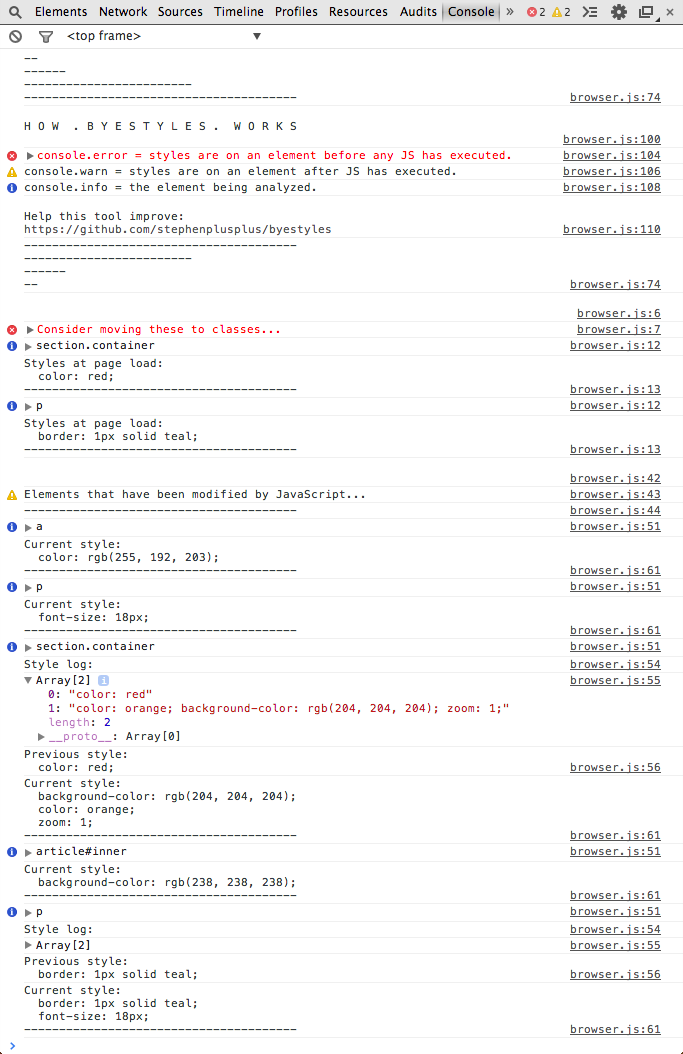
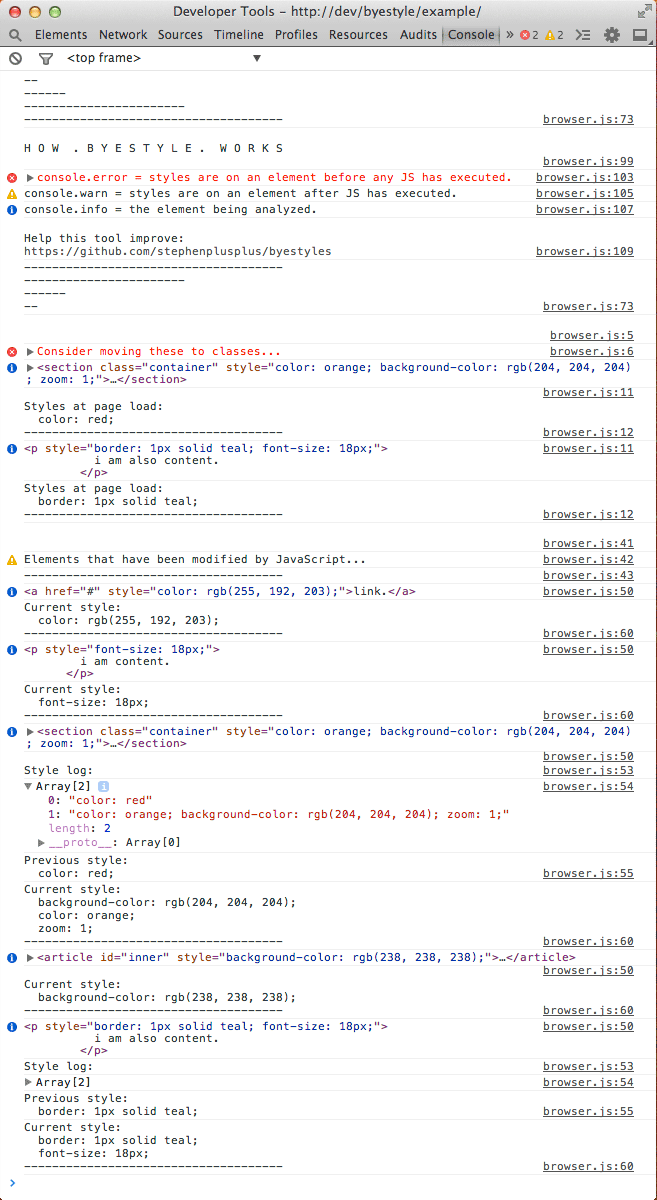
allo x 5.

diff --git a/browser.js b/browser.js
@@ -1,24 +1,24 @@
-!function(e){if("object"==typeof exports)module.exports=e();else if("function"==typeof define&&define.amd)define(e);else{var f;"undefined"!=typeof window?f=window:"undefined"!=typeof global?f=global:"undefined"!=typeof self&&(f=self),f.byestyles=e()}}(function(){var define,module,exports;return (function e(t,n,r){function s(o,u){if(!n[o]){if(!t[o]){var a=typeof require=="function"&&require;if(!u&&a)return a(o,!0);if(i)return i(o,!0);throw new Error("Cannot find module '"+o+"'")}var f=n[o]={exports:{}};t[o][0].call(f.exports,function(e){var n=t[o][1][e];return s(n?n:e)},f,f.exports,e,t,n,r)}return n[o].exports}var i=typeof require=="function"&&require;for(var o=0;o<r.length;o++)s(r[o]);return s})({"Focm2+":[function(_dereq_,module,exports){
-var byestyles = module.exports = {
+!function(e){if("object"==typeof exports)module.exports=e();else if("function"==typeof define&&define.amd)define(e);else{var f;"undefined"!=typeof window?f=window:"undefined"!=typeof global?f=global:"undefined"!=typeof self&&(f=self),f.byestyle=e()}}(function(){var define,module,exports;return (function e(t,n,r){function s(o,u){if(!n[o]){if(!t[o]){var a=typeof require=="function"&&require;if(!u&&a)return a(o,!0);if(i)return i(o,!0);throw new Error("Cannot find module '"+o+"'")}var f=n[o]={exports:{}};t[o][0].call(f.exports,function(e){var n=t[o][1][e];return s(n?n:e)},f,f.exports,e,t,n,r)}return n[o].exports}var i=typeof require=="function"&&require;for(var o=0;o<r.length;o++)s(r[o]);return s})({"Focm2+":[function(_dereq_,module,exports){
+var byestyle = module.exports = {
   calculate: function () {
-    if (++byestyles.calculatedCount === 1) {
-      console.log(byestyles.spacer);
+    if (++byestyle.calculatedCount === 1) {
+      console.log(byestyle.spacer);
       console.error('Consider moving these to classes...');
 
-      byestyles.els.
+      byestyle.els.
         forEach(function (elObject) {
           var lastStyle = elObject.properties.styleLog[elObject.properties.styleLog.length - 1];
           console.info(elObject.el);
           console.log([
             'Styles at page load:',
-            byestyles.format(lastStyle),
-            byestyles.separator].join('\n'));
+            byestyle.format(lastStyle),
+            byestyle.separator].join('\n'));
         });
 
       return;
     }
 
-    var els = byestyles.els.
+    var els = byestyle.els.
       filter(function (elObject) {
         var styleLog = elObject.properties.styleLog;
         return styleLog.length === 1 ||
@@ -38,9 +38,9 @@ var byestyles = module.exports = {
       }, []);
 
     if (els.length) {
-      console.log(byestyles.spacer);
+      console.log(byestyle.spacer);
       console.warn('Elements that have been modified by JavaScript...');
-      console.log(byestyles.separator);
+      console.log(byestyle.separator);
 
       els.
         forEach(function (elObject) {
@@ -54,13 +54,13 @@ var byestyles = module.exports = {
             console.dir(styleLog);
             console.log([
               'Previous style:',
-              byestyles.format(styleLog[styleLog.length - 2])].join('\n'));
+              byestyle.format(styleLog[styleLog.length - 2])].join('\n'));
           }
 
           console.log([
             'Current style:',
-            byestyles.format(style),
-            byestyles.separator].join('\n'));
+            byestyle.format(style),
+            byestyle.separator].join('\n'));
         });
     }
   },
@@ -73,13 +73,13 @@ var byestyles = module.exports = {
     console.log([
       '--',
       '------',
-      '------------------------',
-      '---------------------------------------'
+      '-----------------------',
+      '-------------------------------------'
     ][direction === 'in' ? 'sort' : 'reverse']().join('\n'));
   },
 
   find: function (el) {
-    return byestyles.els.filter(function (elObject) {
+    return byestyle.els.filter(function (elObject) {
       return el === elObject.el;
     })[0] || {};
   },
@@ -95,10 +95,10 @@ var byestyles = module.exports = {
   },
 
   help: function () {
-    byestyles.fade('in');
+    byestyle.fade('in');
     console.log([
       '',
-      'H O W  . B Y E S T Y L E S .  W O R K S',
+      'H O W  . B Y E S T Y L E .  W O R K S',
       ''].join('\n'));
     console.error(
       'console.error = styles are on an element before any JS has executed.');
@@ -109,15 +109,15 @@ var byestyles = module.exports = {
     console.log([
       '',
       'Help this tool improve:',
-      'https://github.com/stephenplusplus/byestyles'].join('\n'));
-    byestyles.fade('out');
+      'https://github.com/stephenplusplus/byestyle'].join('\n'));
+    byestyle.fade('out');
   },
 
   inventory: function () {
-    byestyles.els = byestyles.getStyles().map(function (el) {
+    byestyle.els = byestyle.getStyles().map(function (el) {
       var elObject = {
         el: el,
-        properties: byestyles.find(el).properties || {
+        properties: byestyle.find(el).properties || {
           styleLog: []
         }
       };
@@ -128,16 +128,16 @@ var byestyles = module.exports = {
     });
   },
 
-  separator: '---------------------------------------',
+  separator: '-------------------------------------',
 
   spacer: ['', ''].join('\n')
 };
 
-byestyles.help();
-byestyles.inventory();
-byestyles.calculate();
+byestyle.help();
+byestyle.inventory();
+byestyle.calculate();
 
-},{}],"byestyles":[function(_dereq_,module,exports){
+},{}],"byestyle":[function(_dereq_,module,exports){
 module.exports=_dereq_('Focm2+');
 },{}]},{},["Focm2+"])
 ("Focm2+")

diff --git a/index.js b/index.js
@@ -1,23 +1,23 @@
-var byestyles = module.exports = {
+var byestyle = module.exports = {
   calculate: function () {
-    if (++byestyles.calculatedCount === 1) {
-      console.log(byestyles.spacer);
+    if (++byestyle.calculatedCount === 1) {
+      console.log(byestyle.spacer);
       console.error('Consider moving these to classes...');
 
-      byestyles.els.
+      byestyle.els.
         forEach(function (elObject) {
           var lastStyle = elObject.properties.styleLog[elObject.properties.styleLog.length - 1];
           console.info(elObject.el);
           console.log([
             'Styles at page load:',
-            byestyles.format(lastStyle),
-            byestyles.separator].join('\n'));
+            byestyle.format(lastStyle),
+            byestyle.separator].join('\n'));
         });
 
       return;
     }
 
-    var els = byestyles.els.
+    var els = byestyle.els.
       filter(function (elObject) {
         var styleLog = elObject.properties.styleLog;
         return styleLog.length === 1 ||
@@ -37,9 +37,9 @@ var byestyles = module.exports = {
       }, []);
 
     if (els.length) {
-      console.log(byestyles.spacer);
+      console.log(byestyle.spacer);
       console.warn('Elements that have been modified by JavaScript...');
-      console.log(byestyles.separator);
+      console.log(byestyle.separator);
 
       els.
         forEach(function (elObject) {
@@ -53,13 +53,13 @@ var byestyles = module.exports = {
             console.dir(styleLog);
             console.log([
               'Previous style:',
-              byestyles.format(styleLog[styleLog.length - 2])].join('\n'));
+              byestyle.format(styleLog[styleLog.length - 2])].join('\n'));
           }
 
           console.log([
             'Current style:',
-            byestyles.format(style),
-            byestyles.separator].join('\n'));
+            byestyle.format(style),
+            byestyle.separator].join('\n'));
         });
     }
   },
@@ -72,13 +72,13 @@ var byestyles = module.exports = {
     console.log([
       '--',
       '------',
-      '------------------------',
-      '---------------------------------------'
+      '-----------------------',
+      '-------------------------------------'
     ][direction === 'in' ? 'sort' : 'reverse']().join('\n'));
   },
 
   find: function (el) {
-    return byestyles.els.filter(function (elObject) {
+    return byestyle.els.filter(function (elObject) {
       return el === elObject.el;
     })[0] || {};
   },
@@ -94,10 +94,10 @@ var byestyles = module.exports = {
   },
 
   help: function () {
-    byestyles.fade('in');
+    byestyle.fade('in');
     console.log([
       '',
-      'H O W  . B Y E S T Y L E S .  W O R K S',
+      'H O W  . B Y E S T Y L E .  W O R K S',
       ''].join('\n'));
     console.error(
       'console.error = styles are on an element before any JS has executed.');
@@ -108,15 +108,15 @@ var byestyles = module.exports = {
     console.log([
       '',
       'Help this tool improve:',
-      'https://github.com/stephenplusplus/byestyles'].join('\n'));
-    byestyles.fade('out');
+      'https://github.com/stephenplusplus/byestyle'].join('\n'));
+    byestyle.fade('out');
   },
 
   inventory: function () {
-    byestyles.els = byestyles.getStyles().map(function (el) {
+    byestyle.els = byestyle.getStyles().map(function (el) {
       var elObject = {
         el: el,
-        properties: byestyles.find(el).properties || {
+        properties: byestyle.find(el).properties || {
           styleLog: []
         }
       };
@@ -127,11 +127,11 @@ var byestyles = module.exports = {
     });
   },
 
-  separator: '---------------------------------------',
+  separator: '-------------------------------------',
 
   spacer: ['', ''].join('\n')
 };
 
-byestyles.help();
-byestyles.inventory();
-byestyles.calculate();
+byestyle.help();
+byestyle.inventory();
+byestyle.calculate();

diff --git a/example/browser.js b/example/browser.js
@@ -1,4 +1,4 @@
-!function(e){if("object"==typeof exports)module.exports=e();else if("function"==typeof define&&define.amd)define(e);else{var f;"undefined"!=typeof window?f=window:"undefined"!=typeof global?f=global:"undefined"!=typeof self&&(f=self),f.byestyles=e()}}(function(){var define,module,exports;return (function e(t,n,r){function s(o,u){if(!n[o]){if(!t[o]){var a=typeof require=="function"&&require;if(!u&&a)return a(o,!0);if(i)return i(o,!0);throw new Error("Cannot find module '"+o+"'")}var f=n[o]={exports:{}};t[o][0].call(f.exports,function(e){var n=t[o][1][e];return s(n?n:e)},f,f.exports,e,t,n,r)}return n[o].exports}var i=typeof require=="function"&&require;for(var o=0;o<r.length;o++)s(r[o]);return s})({"Focm2+":[function(_dereq_,module,exports){
+!function(e){if("object"==typeof exports)module.exports=e();else if("function"==typeof define&&define.amd)define(e);else{var f;"undefined"!=typeof window?f=window:"undefined"!=typeof global?f=global:"undefined"!=typeof self&&(f=self),f.byestyle=e()}}(function(){var define,module,exports;return (function e(t,n,r){function s(o,u){if(!n[o]){if(!t[o]){var a=typeof require=="function"&&require;if(!u&&a)return a(o,!0);if(i)return i(o,!0);throw new Error("Cannot find module '"+o+"'")}var f=n[o]={exports:{}};t[o][0].call(f.exports,function(e){var n=t[o][1][e];return s(n?n:e)},f,f.exports,e,t,n,r)}return n[o].exports}var i=typeof require=="function"&&require;for(var o=0;o<r.length;o++)s(r[o]);return s})({"Focm2+":[function(_dereq_,module,exports){
 var byestyles = module.exports = {
   calculate: function () {
     if (++byestyles.calculatedCount === 1) {
@@ -73,8 +73,8 @@ var byestyles = module.exports = {
     console.log([
       '--',
       '------',
-      '------------------------',
-      '---------------------------------------'
+      '-----------------------',
+      '-------------------------------------'
     ][direction === 'in' ? 'sort' : 'reverse']().join('\n'));
   },
 
@@ -98,7 +98,7 @@ var byestyles = module.exports = {
     byestyles.fade('in');
     console.log([
       '',
-      'H O W  . B Y E S T Y L E S .  W O R K S',
+      'H O W  . B Y E S T Y L E .  W O R K S',
       ''].join('\n'));
     console.error(
       'console.error = styles are on an element before any JS has executed.');
@@ -128,7 +128,7 @@ var byestyles = module.exports = {
     });
   },
 
-  separator: '---------------------------------------',
+  separator: '-------------------------------------',
 
   spacer: ['', ''].join('\n')
 };
@@ -137,7 +137,7 @@ byestyles.help();
 byestyles.inventory();
 byestyles.calculate();
 
-},{}],"byestyles":[function(_dereq_,module,exports){
+},{}],"byestyle":[function(_dereq_,module,exports){
 module.exports=_dereq_('Focm2+');
 },{}]},{},["Focm2+"])
 ("Focm2+")

diff --git a/example/index.html b/example/index.html
@@ -50,10 +50,10 @@
 
     <script>
       // take an inventory of the [style] elements on the page.
-      window.byestyles.inventory();
+      window.byestyle.inventory();
 
       // calculate the changes.
-      window.byestyles.calculate();
+      window.byestyle.calculate();
     </script>
   </body>
 </html>
